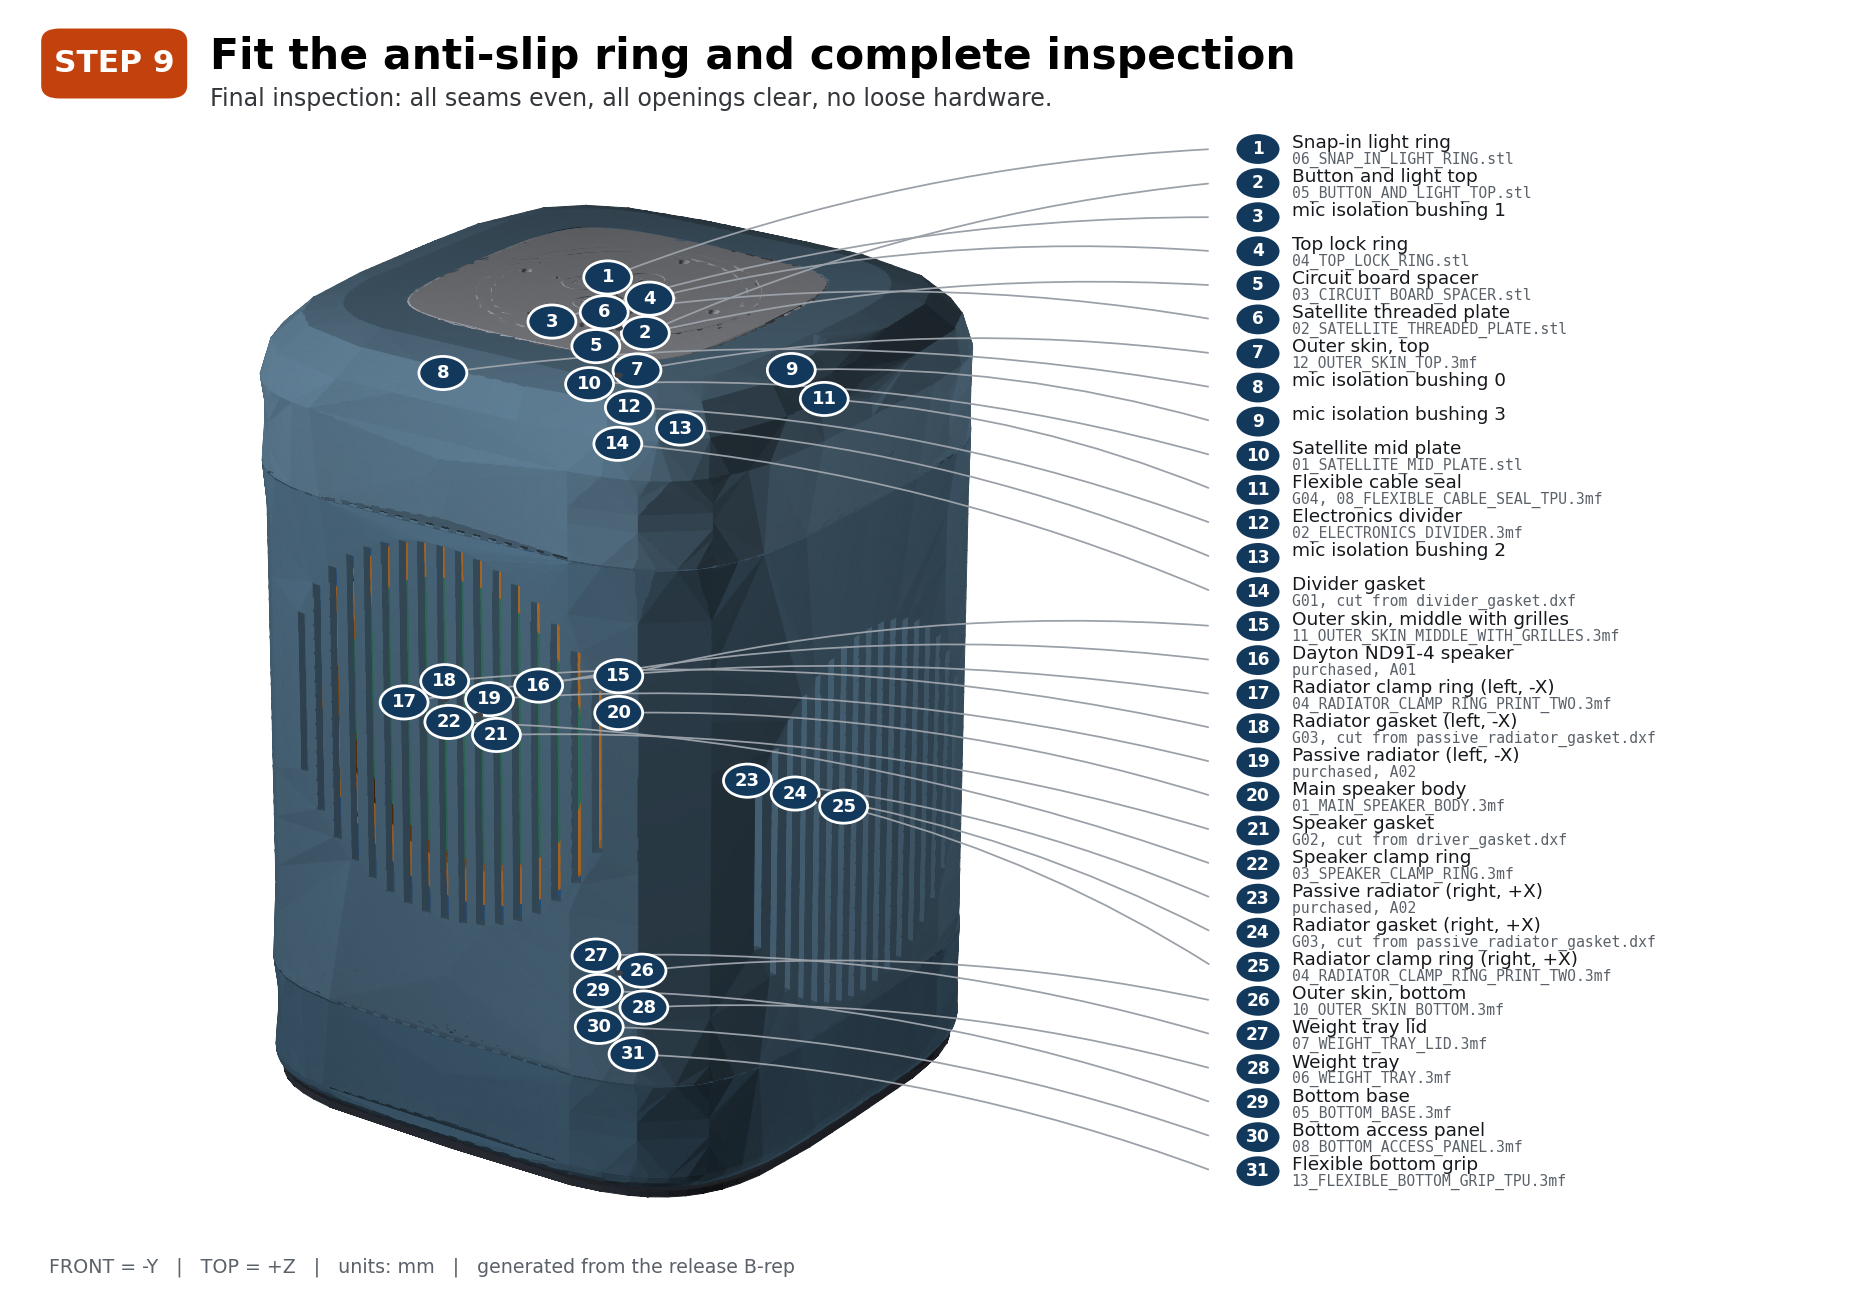
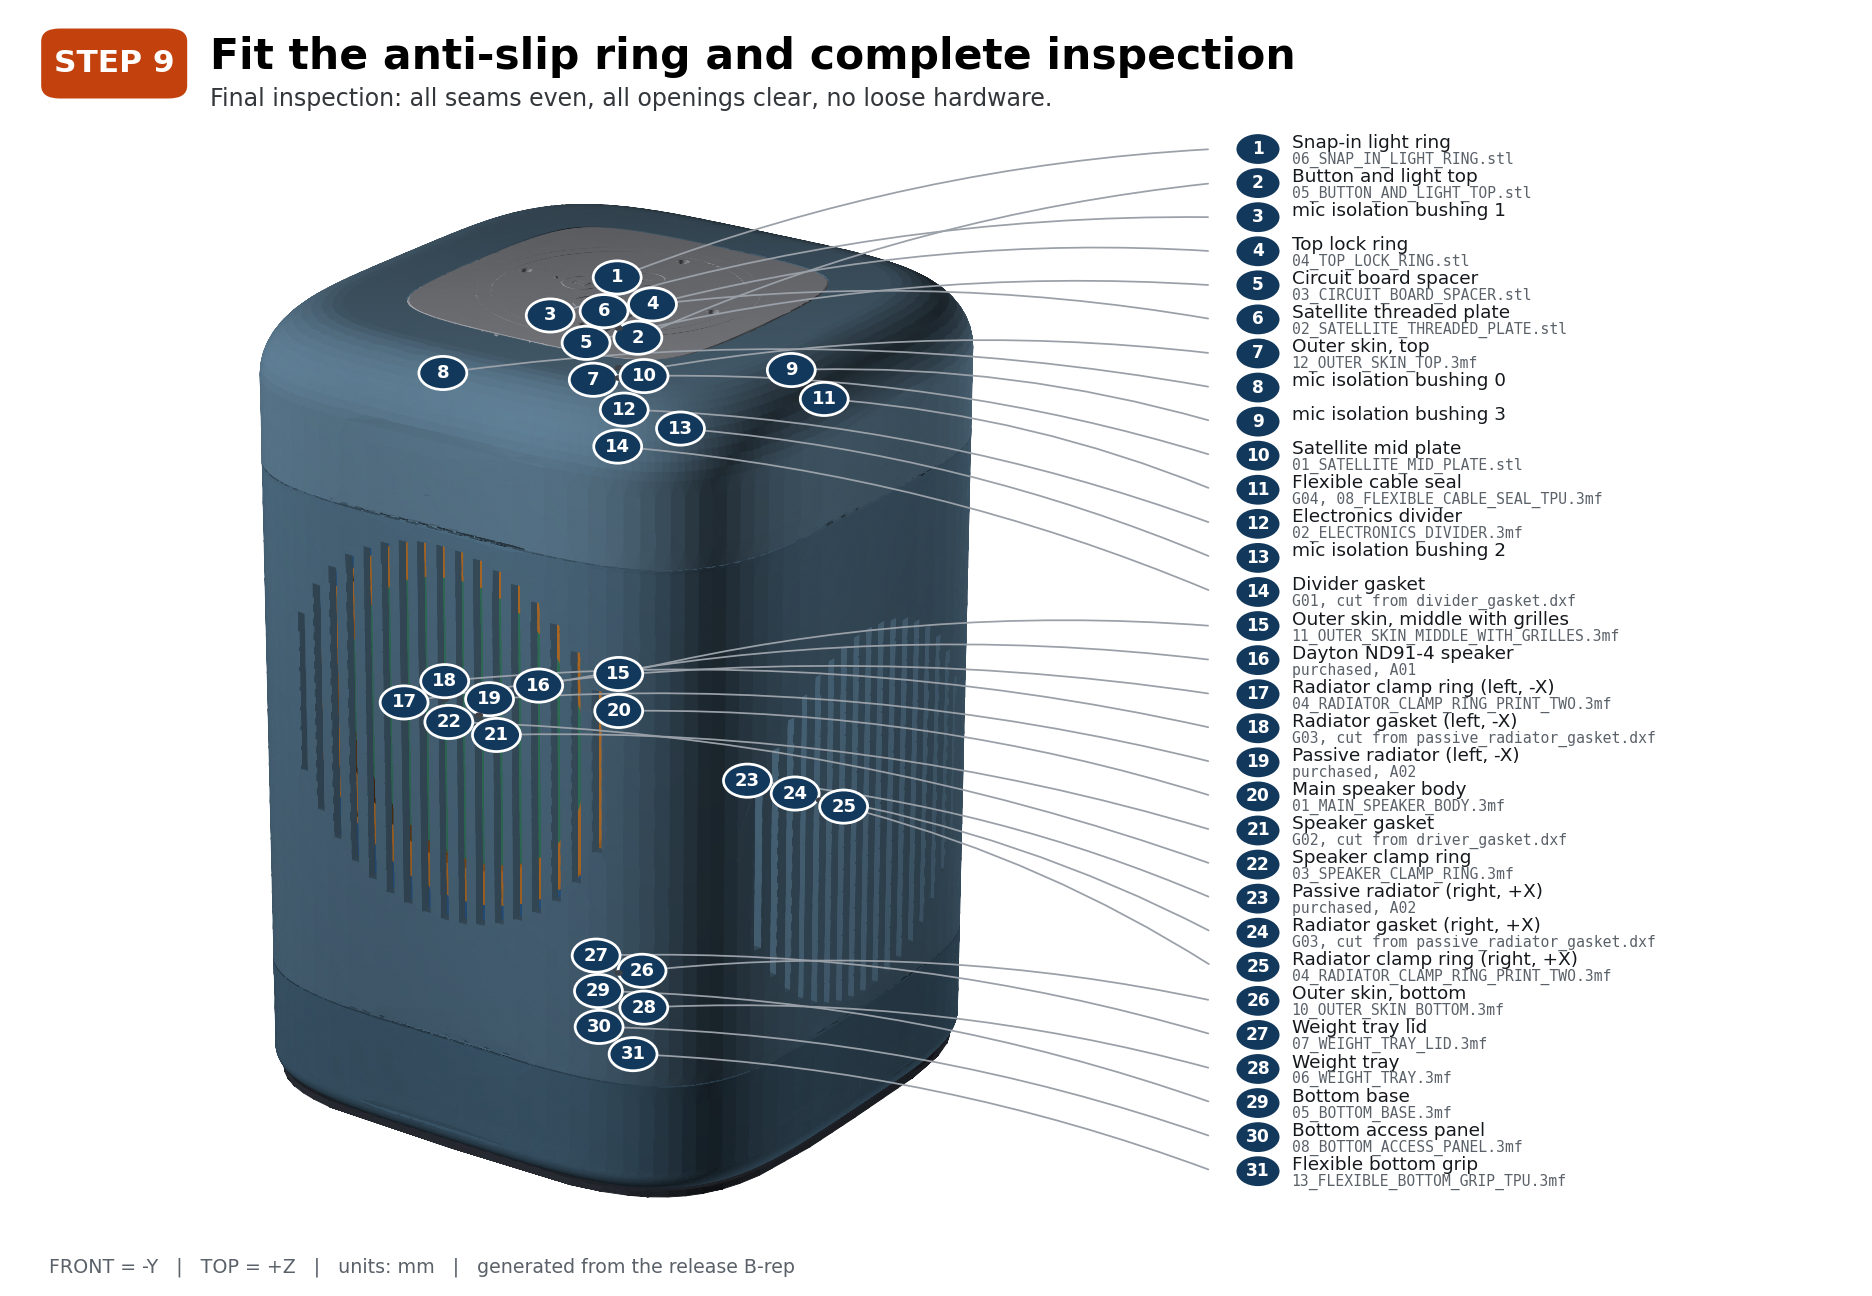
fix: draw the product shots at print-mesh tolerance, from the render pass
The website hero showed flat spots and kinked curves along the corner sweep.
That was the drawing, not the part: renders tessellate at 0.35 mm for speed,
while the 3MF/STL meshes builders print use 0.02 mm and STEP carries the exact
spline. Measured on shell_crown, the preview mesh deviates 1.478 mm from the
ideal superellipse against 0.229 mm for the export mesh -- roughly seven layer
heights of faceting, purely in the PNG.

- render_product_views() draws the finished object at export tolerance. It
  replaces scripts/render_v2_review.py, whose output make renders never
  produced, so clean deleted it and the README lost its image.
- Assembly diagrams stay at preview tolerance on purpose: many-part figures
  where the skin is occluded, and fine-tessellating every internal solid would
  push ~500k polygons through matplotlib's painter sort for no visible gain.
- _TESSELLATION_CACHE keyed on shape identity but not tolerance, so a coarse
  pass handed its facets to a later fine pass and the fine render was silently
  the coarse one.
- docs-check now validates README images. It only covered generated guides
  before, which is how a reference to a side-script artifact shipped: the file
  existed locally, so an existence check passed. Referencing a render the pass
  does not produce is now its own error.

Claude-Session: https://claude.ai/code/session_01X2PpMaFz9A3PPGWVNc3WXj

diff --git a/src/satellite1_ultra/renders.py b/src/satellite1_ultra/renders.py
@@ -7,6 +7,8 @@ no hand-drawn illustration is used anywhere in this project's deliverables.
 
 from __future__ import annotations
 
+from collections.abc import Iterator
+from contextlib import contextmanager
 from dataclasses import dataclass
 from pathlib import Path
 from typing import cast
@@ -29,16 +31,28 @@ from satellite1_ultra.assemblies import _placement, release_parts
 from satellite1_ultra.configuration import ROOT
 from satellite1_ultra.geometry import (
     DEFAULT_PARAMETERS,
+    SECTION_EXPONENT,
     DesignParameters,
     ballast_plate_extent,
 )
 
+#: Instructional diagrams are small, annotated and numerous, so they tessellate
+#: coarsely to keep the render pass quick.  This is a *drawing* tolerance and has
+#: nothing to do with the meshes builders print: those come from
+#: ``PartDefinition.mesh_tolerance`` (0.02 mm) in exporting.py.
 TESSELLATION_TOLERANCE = 0.35
 ANGULAR_TOLERANCE = 0.35
+
+#: The product shots show the bare superellipse skin, where 0.35 mm of chord
+#: error is plainly visible as flat spots along the corner sweep.  Draw those at
+#: the same tolerance the printed mesh uses, so the picture cannot imply
+#: faceting the part does not have.
+FINE_TESSELLATION_TOLERANCE = 0.02
+FINE_ANGULAR_TOLERANCE = 0.10
 LIGHT = np.array([-0.45, -0.75, 0.49])
 LIGHT = LIGHT / np.linalg.norm(LIGHT)
 _TESSELLATION_CACHE: dict[
-    tuple[int, float, float, float, float],
+    tuple[int, float, float, float, float, float, float],
     tuple[NDArray[np.float64], NDArray[np.int64]],
 ] = {}
 
@@ -139,6 +153,19 @@ BALLOON_FACE = "#12395c"
 ACCENT = "#c2410c"
 
 
+@contextmanager
+def fine_tessellation() -> Iterator[None]:
+    """Draw at the tolerance the printed mesh uses, for bare-surface product shots."""
+    global TESSELLATION_TOLERANCE, ANGULAR_TOLERANCE
+    previous = (TESSELLATION_TOLERANCE, ANGULAR_TOLERANCE)
+    TESSELLATION_TOLERANCE = FINE_TESSELLATION_TOLERANCE
+    ANGULAR_TOLERANCE = FINE_ANGULAR_TOLERANCE
+    try:
+        yield
+    finally:
+        TESSELLATION_TOLERANCE, ANGULAR_TOLERANCE = previous
+
+
 def triangles(shape: cq.Shape) -> tuple[NDArray[np.float64], NDArray[np.int64]]:
     """Tessellate a B-rep solid into vertices and triangle indices."""
     center = shape.Center()
@@ -148,6 +175,11 @@ def triangles(shape: cq.Shape) -> tuple[NDArray[np.float64], NDArray[np.int64]]:
         round(center.x, 5),
         round(center.y, 5),
         round(center.z, 5),
+        # The tolerance has to be part of the key.  Without it a scene drawn
+        # coarsely first would hand its facets straight back to a later fine
+        # pass, and the fine render would silently be the coarse one.
+        TESSELLATION_TOLERANCE,
+        ANGULAR_TOLERANCE,
     )
     cached = _TESSELLATION_CACHE.get(key)
     if cached is not None:
@@ -696,6 +728,11 @@ def render_views(
     colors = _colors(parts)
     written: list[Path] = []
     suffix = "_exploded" if exploded else ""
+    # Deliberately drawn at the coarse preview tolerance.  This is a many-part
+    # assembly diagram where the skin is mostly occluded, and tessellating every
+    # internal solid finely would put roughly half a million polygons through
+    # matplotlib's painter sort for no visible gain.  The smooth-surface job
+    # belongs to render_product_views.
     for view in VIEWS:
         figure = plt.figure(figsize=(7.5, 8.5), dpi=170)
         axis = figure.add_subplot(111, projection="3d")
@@ -1469,12 +1506,64 @@ def render_special_views(output: Path, parameters: DesignParameters) -> list[Pat
     ]
 
 
+#: Product-shot shading.  The assembly diagrams use DOC_PALETTE to separate
+#: adjacent parts; a product shot is the opposite job, so the skin reads as one
+#: continuous graphite object and only the mic isolators pick up the accent.
+PRODUCT_SHADE: dict[str, tuple[float, float, float]] = {
+    "shell_base": (0.29, 0.31, 0.34),
+    "shell_grille": (0.33, 0.35, 0.38),
+    "shell_crown": (0.29, 0.31, 0.34),
+}
+#: Hidden inside the official stack, so they only add clutter to a product shot.
+_PRODUCT_HIDE = ("official_hat_batch1_rev4_1", "official_pcb_spacer")
+
+
+def render_product_views(
+    output: Path = ROOT / "reports" / "renders",
+    parameters: DesignParameters = DEFAULT_PARAMETERS,
+) -> list[Path]:
+    """Render the finished object as a buyer sees it: skin plus the official top.
+
+    This is the image the README and the website lead with.  It lives in the
+    render pass rather than in a side script precisely so ``clean`` cannot leave
+    the published pages pointing at a file nothing regenerates.
+    """
+    from satellite1_ultra.geometry import skin_segments
+    from satellite1_ultra.official import official_upper_solids
+
+    output.mkdir(parents=True, exist_ok=True)
+    parts: dict[str, cq.Shape] = dict(skin_segments(parameters))
+    parts.update({n: s for n, s in official_upper_solids().items() if n not in _PRODUCT_HIDE})
+    colors = {n: PRODUCT_SHADE.get(n, (0.60, 0.62, 0.65)) for n in parts}
+    body = 2.0 * parameters.body_half
+    height = parameters.shell_flat_top_z - parameters.shell_bottom_z
+    note = (
+        f"{body:.0f} x {body:.0f} x {height:.1f} mm   |   "
+        f"superellipse n = {SECTION_EXPONENT}   |   official top flush"
+    )
+    written: list[Path] = []
+    with fine_tessellation():
+        for view in VIEWS:
+            written.append(
+                _scene(
+                    output / f"product_{view.name}.png",
+                    parts,
+                    f"Satellite1 Ultra — {view.name}",
+                    note,
+                    view=view,
+                    colors=colors,
+                )
+            )
+    return written
+
+
 def generate_renders(
     output: Path = ROOT / "reports" / "renders",
     parameters: DesignParameters = DEFAULT_PARAMETERS,
 ) -> list[Path]:
     """Produce the complete render deliverable set."""
-    written = render_views(output, parameters, exploded=False)
+    written = render_product_views(output, parameters)
+    written += render_views(output, parameters, exploded=False)
     written += render_views(output, parameters, exploded=True)
     written += render_cross_sections(output, parameters)
     written.append(render_part_sheet(output, parameters))

diff --git a/src/satellite1_ultra/doc_validation.py b/src/satellite1_ultra/doc_validation.py
@@ -50,6 +50,65 @@ def _csv_rows(path: Path) -> list[dict[str, str]]:
         return list(csv.DictReader(source))
 
 
+#: Camera names in renders.VIEWS, which the view-loop file names interpolate.
+VIEW_NAMES = ("iso", "front", "side", "top")
+
+#: Hand-written pages that are published as-is and so must only reference
+#: images the render pass actually produces.
+HAND_WRITTEN_PAGES = ("README.md",)
+
+
+def _hand_written_image_errors(root: Path) -> list[str]:
+    """Check hand-written pages reference renders the pipeline regenerates.
+
+    Existing on disk is not sufficient: a file left behind by a one-off script
+    passes an existence check and then disappears on the next ``clean``.  The
+    reference has to name a render ``generate_renders`` writes.
+    """
+    produced = _rendered_names(root)
+    errors: list[str] = []
+    for page_name in HAND_WRITTEN_PAGES:
+        page = root / page_name
+        if not page.is_file():
+            errors.append(f"missing page: {page_name}")
+            continue
+        for _, ref in re.findall(r"!\[(.*?)\]\((.*?)\)", page.read_text(encoding="utf-8")):
+            if ref.startswith(("http://", "https://")):
+                continue
+            if not (root / ref).is_file():
+                errors.append(f"missing image referenced by {page_name}: {ref}")
+            elif ref.startswith("reports/renders/") and Path(ref).name not in produced:
+                errors.append(
+                    f"{page_name} references {ref}, which the render pass does not "
+                    "produce; it will vanish on the next clean"
+                )
+    return errors
+
+
+def _rendered_names(root: Path) -> set[str]:
+    """File names ``generate_renders`` writes, read from its source.
+
+    Read statically rather than by running the render pass, so the check stays
+    cheap enough to sit in ``docs-check``.
+    """
+    source = (root / "src" / "satellite1_ultra" / "renders.py").read_text(encoding="utf-8")
+    names: set[str] = set()
+    for stem in re.findall(r'output / f?"([^"]+\.png)"', source):
+        expanded = {stem}
+        if "{view.name}" in stem:
+            expanded = {
+                name.replace("{view.name}", view) for name in expanded for view in VIEW_NAMES
+            }
+        if "{suffix}" in stem:
+            expanded = {
+                name.replace("{suffix}", suffix)
+                for name in expanded
+                for suffix in ("", "_exploded")
+            }
+        names |= expanded
+    return names
+
+
 def validate_documentation(root: Path = ROOT) -> dict[str, Any]:
     """Validate generated documentation against current exports and schedules."""
     docs = root / "docs"
@@ -83,6 +142,12 @@ def validate_documentation(root: Path = ROOT) -> dict[str, Any]:
     )
     if duplicates:
         errors.append("duplicate image captions: " + ", ".join(duplicates))
+
+    # The hand-written README is the first thing anyone sees, and it was not
+    # covered above: it pointed at a render produced only by a side script, so
+    # `clean` removed the file and nothing regenerated it.  Its images have to
+    # come from the render pass like everyone else's.
+    errors.extend(_hand_written_image_errors(root))
 
     try:
         bom = _csv_rows(docs / "BOM.csv")

diff --git a/tests/test_documentation.py b/tests/test_documentation.py
@@ -2,8 +2,49 @@
 
 from __future__ import annotations
 
-from satellite1_ultra.doc_validation import validate_documentation
+import shutil
+from pathlib import Path
+
+from satellite1_ultra.configuration import ROOT
+from satellite1_ultra.doc_validation import (
+    _hand_written_image_errors,
+    _rendered_names,
+    validate_documentation,
+)
 
 
 def test_generated_documentation_is_complete() -> None:
     assert validate_documentation()["status"] == "PASS"
+
+
+def test_readme_images_come_from_the_render_pass(tmp_path: Path) -> None:
+    """A README image that no pipeline step regenerates has to fail the gate.
+
+    The README once pointed at a render produced only by a side script.  It was
+    present locally, so an existence check passed, and then ``clean`` deleted it
+    and the published page lost its image.  Existing is not enough: the render
+    pass has to name the file.
+    """
+    root = tmp_path
+    (root / "src" / "satellite1_ultra").mkdir(parents=True)
+    (root / "reports" / "renders").mkdir(parents=True)
+    shutil.copy(
+        ROOT / "src" / "satellite1_ultra" / "renders.py",
+        root / "src" / "satellite1_ultra" / "renders.py",
+    )
+    produced = sorted(_rendered_names(root))
+    assert produced, "expected the render pass to declare some file names"
+    orphan = "reports/renders/not_in_the_pipeline.png"
+    for reference in (f"reports/renders/{produced[0]}", orphan):
+        (root / reference).write_bytes(b"")
+
+    (root / "README.md").write_text(f"![ok](reports/renders/{produced[0]})\n")
+    assert _hand_written_image_errors(root) == []
+
+    # Present on disk, but nothing regenerates it.
+    (root / "README.md").write_text(f"![stale]({orphan})\n")
+    assert any("does not produce" in error for error in _hand_written_image_errors(root))
+
+    # Referenced and absent.
+    (root / "README.md").write_text("![gone](reports/renders/absent.png)\n")
+    assert any("missing image" in error for error in _hand_written_image_errors(root))

diff --git a/src/satellite1_ultra/site.py b/src/satellite1_ultra/site.py
@@ -111,7 +111,7 @@ def _index(req: dict[str, float]) -> str:
 lights. Everything below them gets replaced by a sealed, weighted cabinet with a
 real 3.5&nbsp;inch driver and a passive radiator on each side.</p>
 
-<img src="images/assembly_iso.png" alt="The finished Satellite1 Ultra">
+<img src="images/product_iso.png" alt="The finished Satellite1 Ultra">
 
 <p>It is built from the official squircle\u2019s own curve, so the Satellite1 top
 sits flush in a single flat surface rather than perched on a shoulder. Assembled,
@@ -606,6 +606,7 @@ seal you have disturbed, and never cut a wire to get a part out.</div>
 #: Renders the site needs; copied next to the pages so GitHub Pages can serve them.
 SITE_IMAGES = (
     "assembly_iso.png",
+    "product_iso.png",
     "calibration_official_interface.png",
     "calibration_fasteners.png",
     "calibration_driver.png",

diff --git a/README.md b/README.md
@@ -11,7 +11,7 @@ rounded rectangle — so the Satellite1 top sits **flush** in a single flat surf
 instead of perched on a shoulder. Assembled, it reads as one object. Nothing is
 glued; it all comes back apart with a hex key.
 
-![The finished Satellite1 Ultra](reports/renders/assembly_iso.png)
+![The finished Satellite1 Ultra](reports/renders/product_iso.png)
 
 ## Start here
 
@@ -113,12 +113,11 @@ website, and the release package. It fails if anything is missing or stale.
 | `make site` | Build the illustrated website into `site/` |
 | `make clean` | Remove every generated artifact |
 
-Two extra checks worth knowing about, both written after gates missed real
-defects:
+One extra check worth knowing about, written after the gates missed a real
+defect:
 
 ```text
 .venv/bin/python scripts/audit_connections.py   # every bolted joint, from the solids
-.venv/bin/python scripts/render_v2_review.py    # review sheets of the current form
 ```
 
 `audit_connections.py` exists because a fastener can pass a position check and
